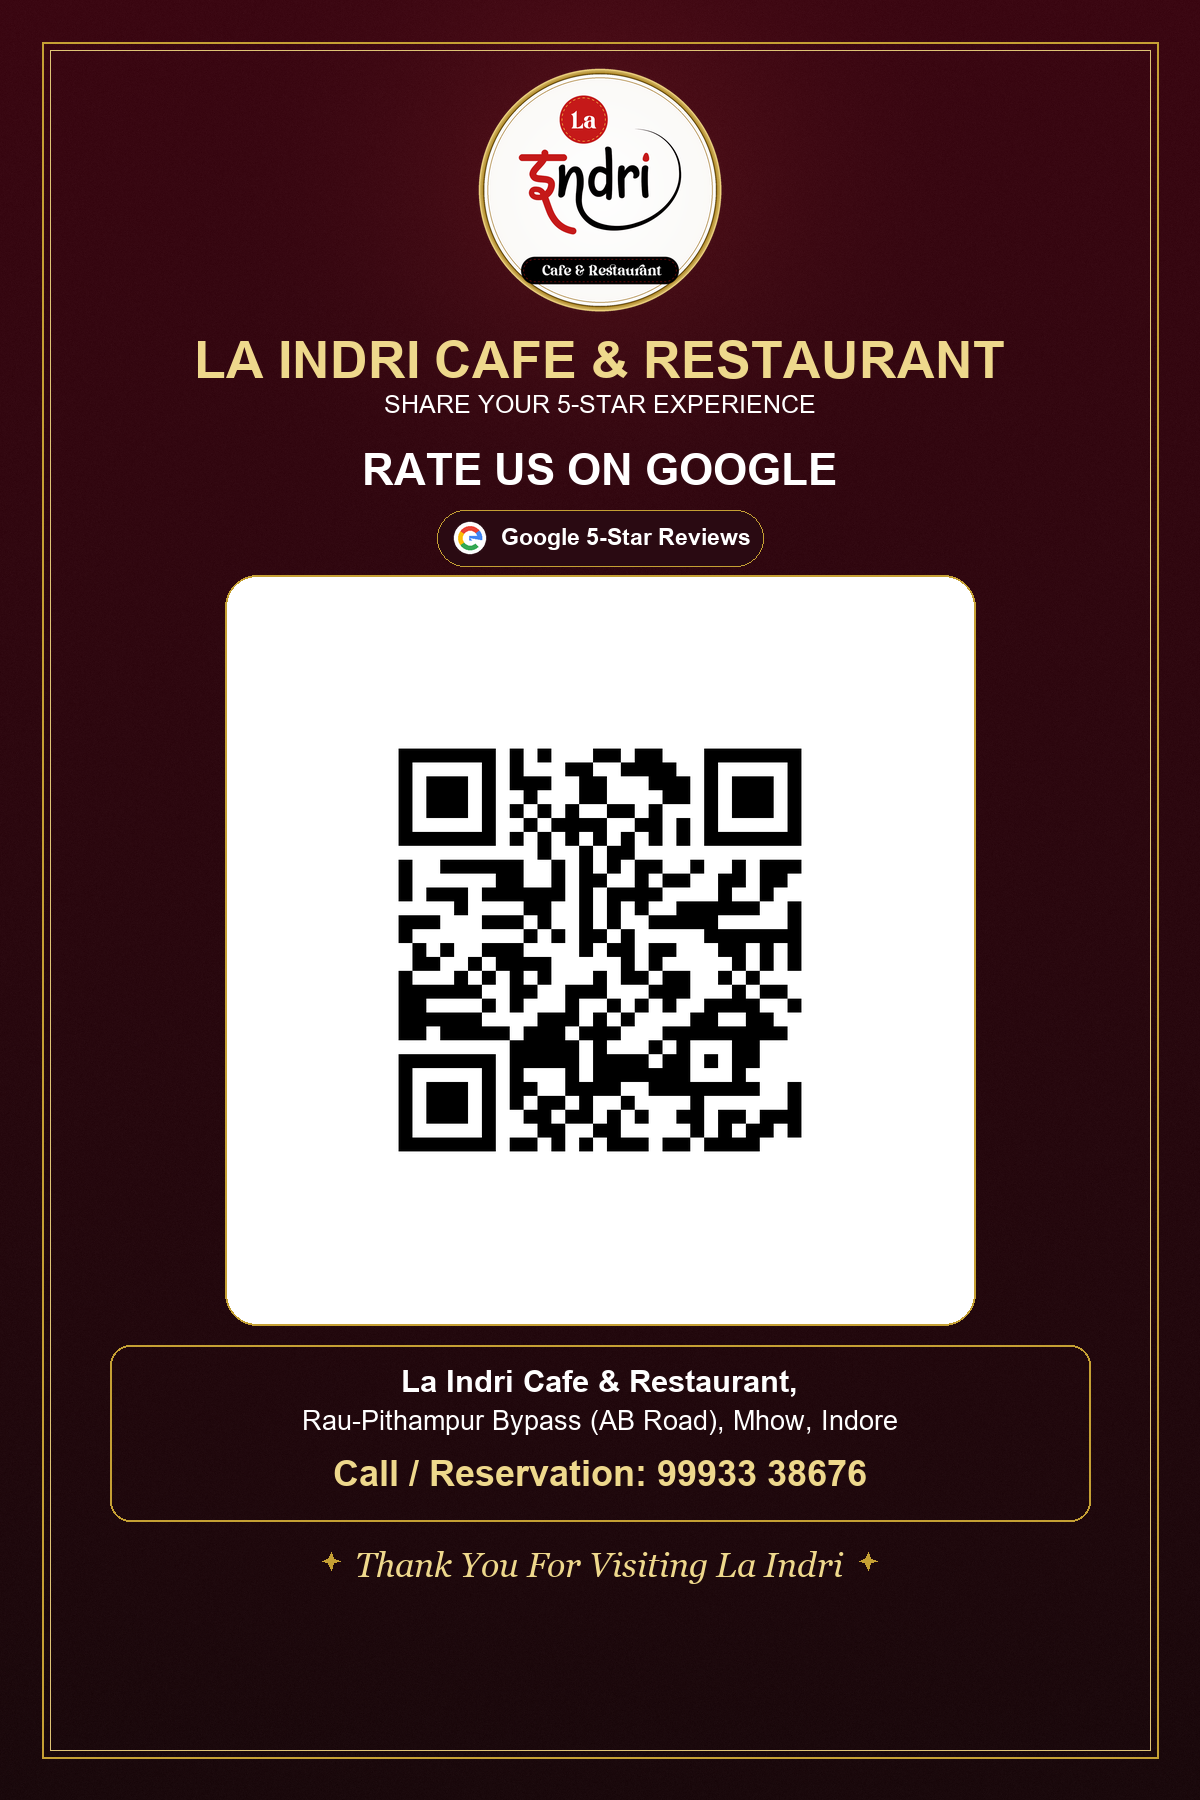
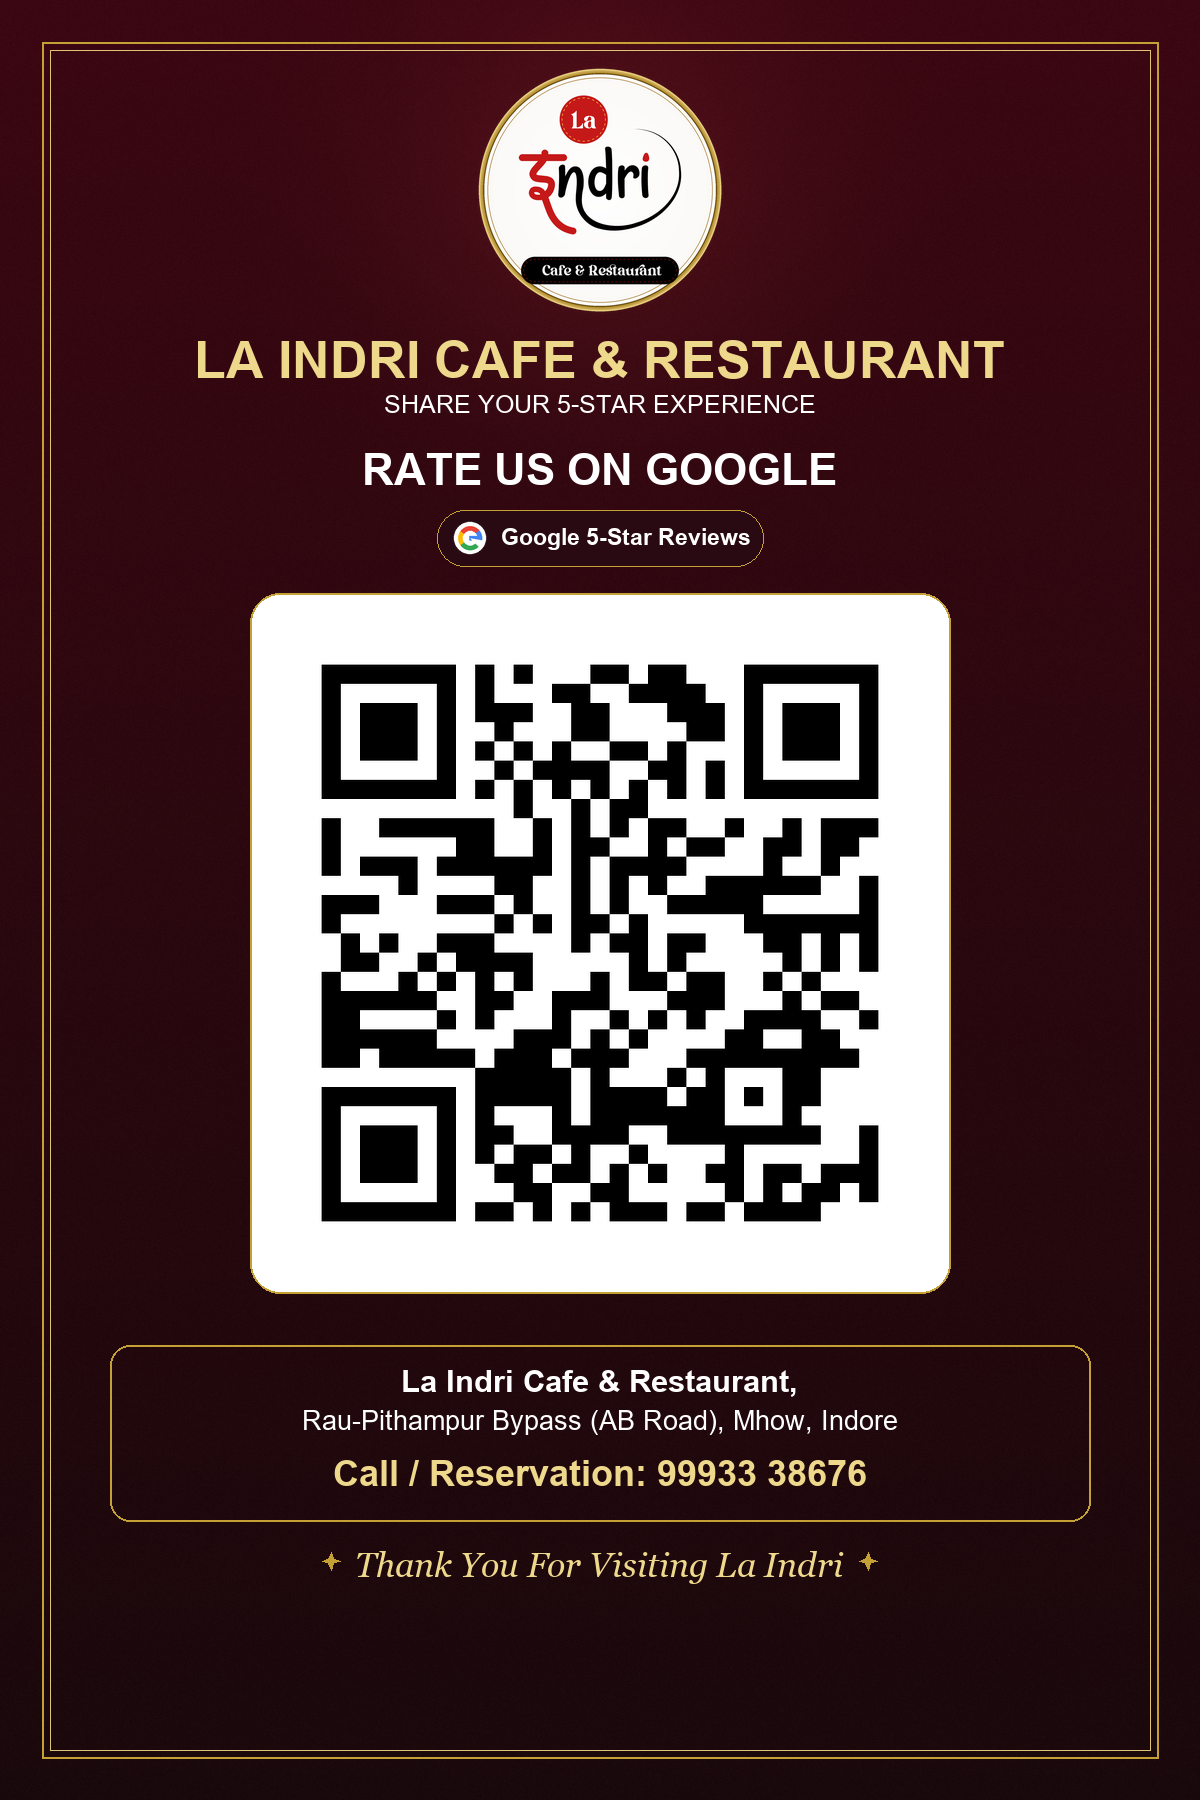
update: balanced QR and white card proportions

Changed region(s): [[0.185, 0.3111, 0.8325, 0.7467]]

diff --git a/standee.html b/standee.html
@@ -195,12 +195,12 @@
 
         .qr-box {
             background: #ffffff;
-            padding: 24px;
+            padding: 10px;
             border-radius: 18px;
             border: 2px solid #c5a034;
             box-shadow: 0 12px 30px rgba(0, 0, 0, 0.55);
-            width: 260px;
-            height: 260px;
+            width: 255px;
+            height: 255px;
             display: flex;
             align-items: center;
             justify-content: center;

diff --git a/generate_qr.py b/generate_qr.py
@@ -91,7 +91,7 @@ def make_qr_image(url, fill_color="#000000", back_color="#ffffff", box_size=20):
     qr = qrcode.QRCode(
         error_correction=qrcode.constants.ERROR_CORRECT_M,
         box_size=box_size,
-        border=4,
+        border=3,
     )
     qr.add_data(url)
     qr.make(fit=True)
@@ -242,18 +242,18 @@ def generate_single_direct_standee(qr_img, title, tagline, badge_icon, badge_tex
         standee.paste(ico, (b_x + 16, b_y + 11), ico)
     draw.text((b_x + 64, b_y + 14), badge_text, fill="#ffffff", font=badge_font)
 
-    # 7. Big Direct QR Card with approx 1 cm (~118px) white margin
-    qr_card_size = 750
+    # 7. Big Direct QR Card with balanced white quiet zone
+    qr_card_size = 700
     qr_card_x = (w - qr_card_size) // 2
-    qr_card_y = 575
-    margin_1cm = 118
-    qr_size = qr_card_size - 2 * margin_1cm
+    qr_card_y = 593
+    margin_pad = 14
+    qr_size = qr_card_size - 2 * margin_pad
     draw.rounded_rectangle(
         [qr_card_x, qr_card_y, qr_card_x + qr_card_size, qr_card_y + qr_card_size],
-        radius=32, fill="#ffffff", outline="#c5a034", width=2
+        radius=30, fill="#ffffff", outline="#c5a034", width=2
     )
     qr_resized = qr_img.resize((qr_size, qr_size), Image.Resampling.LANCZOS)
-    standee.paste(qr_resized, (qr_card_x + margin_1cm, qr_card_y + margin_1cm))
+    standee.paste(qr_resized, (qr_card_x + margin_pad, qr_card_y + margin_pad))
 
     # 8. Address + Phone Framed in Thin Gold Box (as in reference image)
     box_w = 980
@@ -362,18 +362,18 @@ def generate_dual_link_standee(qr_img, cfg):
         standee.paste(i_ico, (insta_x + 16, badges_y + 11), i_ico)
     draw.text((insta_x + 64, badges_y + 14), i_text, fill="#ffffff", font=badge_font)
 
-    # 7. Main QR Card with approx 1 cm (~118px) white margin
-    qr_card_size = 750
+    # 7. Main QR Card with balanced white quiet zone
+    qr_card_size = 700
     qr_card_x = (w - qr_card_size) // 2
-    qr_card_y = 575
-    margin_1cm = 118
-    qr_size = qr_card_size - 2 * margin_1cm
+    qr_card_y = 593
+    margin_pad = 14
+    qr_size = qr_card_size - 2 * margin_pad
     draw.rounded_rectangle(
         [qr_card_x, qr_card_y, qr_card_x + qr_card_size, qr_card_y + qr_card_size],
-        radius=32, fill="#ffffff", outline="#c5a034", width=2
+        radius=30, fill="#ffffff", outline="#c5a034", width=2
     )
     qr_resized = qr_img.resize((qr_size, qr_size), Image.Resampling.LANCZOS)
-    standee.paste(qr_resized, (qr_card_x + margin_1cm, qr_card_y + margin_1cm))
+    standee.paste(qr_resized, (qr_card_x + margin_pad, qr_card_y + margin_pad))
 
     # 8. Address + Phone Framed in Thin Gold Box (as in reference image)
     box_w = 980
@@ -466,13 +466,13 @@ def generate_dual_standee_card(img_google, img_insta, cfg):
     gs_b = draw.textbbox((0, 0), g_sub, font=box_sub_font)
     draw.text((x_g + (card_w - (gs_b[2] - gs_b[0])) // 2, y_pos + 74), g_sub, fill="#eed88c", font=box_sub_font)
 
-    qr_box_size = 460
+    qr_box_size = 450
     qr_x_g = x_g + (card_w - qr_box_size) // 2
-    margin_dual = 55
+    margin_dual = 16
     qr_inner_dual = qr_box_size - 2 * margin_dual
-    draw.rounded_rectangle([qr_x_g, y_pos + 120, qr_x_g + qr_box_size, y_pos + 120 + qr_box_size], radius=20, fill="#ffffff", outline="#c5a034", width=2)
+    draw.rounded_rectangle([qr_x_g, y_pos + 125, qr_x_g + qr_box_size, y_pos + 125 + qr_box_size], radius=20, fill="#ffffff", outline="#c5a034", width=2)
     qr_g_resized = img_google.resize((qr_inner_dual, qr_inner_dual), Image.Resampling.LANCZOS)
-    standee.paste(qr_g_resized, (qr_x_g + margin_dual, y_pos + 120 + margin_dual))
+    standee.paste(qr_g_resized, (qr_x_g + margin_dual, y_pos + 125 + margin_dual))
 
     # Google badge pill
     draw.rounded_rectangle([x_g + 80, y_pos + 615, x_g + card_w - 80, y_pos + 675], radius=30, fill="#22060d", outline="#c5a034", width=1)
@@ -497,12 +497,12 @@ def generate_dual_standee_card(img_google, img_insta, cfg):
     draw.text((x_i + (card_w - (is_b[2] - is_b[0])) // 2, y_pos + 74), i_sub, fill="#eed88c", font=box_sub_font)
 
     qr_x_i = x_i + (card_w - qr_box_size) // 2
-    draw.rounded_rectangle([qr_x_i, y_pos + 120, qr_x_i + qr_box_size, y_pos + 120 + qr_box_size], radius=20, fill="#ffffff", outline="#c5a034", width=2)
+    draw.rounded_rectangle([qr_x_i, y_pos + 125, qr_x_i + qr_box_size, y_pos + 125 + qr_box_size], radius=20, fill="#ffffff", outline="#c5a034", width=2)
     qr_i_resized = img_insta.resize((qr_inner_dual, qr_inner_dual), Image.Resampling.LANCZOS)
-    standee.paste(qr_i_resized, (qr_x_i + margin_dual, y_pos + 120 + margin_dual))
+    standee.paste(qr_i_resized, (qr_x_i + margin_dual, y_pos + 125 + margin_dual))
 
     # Instagram badge pill
-    draw.rounded_rectangle([x_i + 80, y_pos + 615, x_i + card_w - 80, y_pos + 685], radius=30, fill="#22060d", outline="#c5a034", width=1)
+    draw.rounded_rectangle([x_i + 80, y_pos + 615, x_i + card_w - 80, y_pos + 675], radius=30, fill="#22060d", outline="#c5a034", width=1)
     if os.path.exists("instagram_icon.png"):
         i_ico = Image.open("instagram_icon.png").convert("RGBA").resize((32, 32), Image.Resampling.LANCZOS)
         standee.paste(i_ico, (x_i + 95, y_pos + 634), i_ico)
